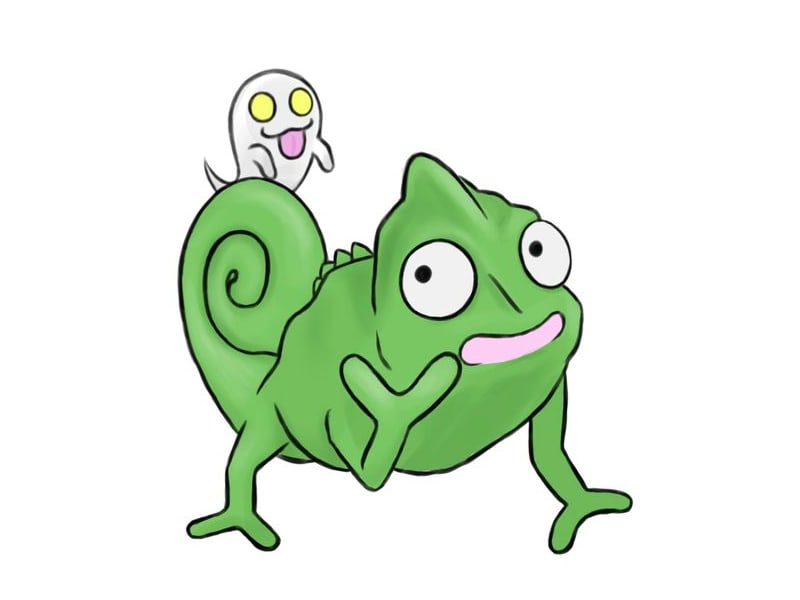
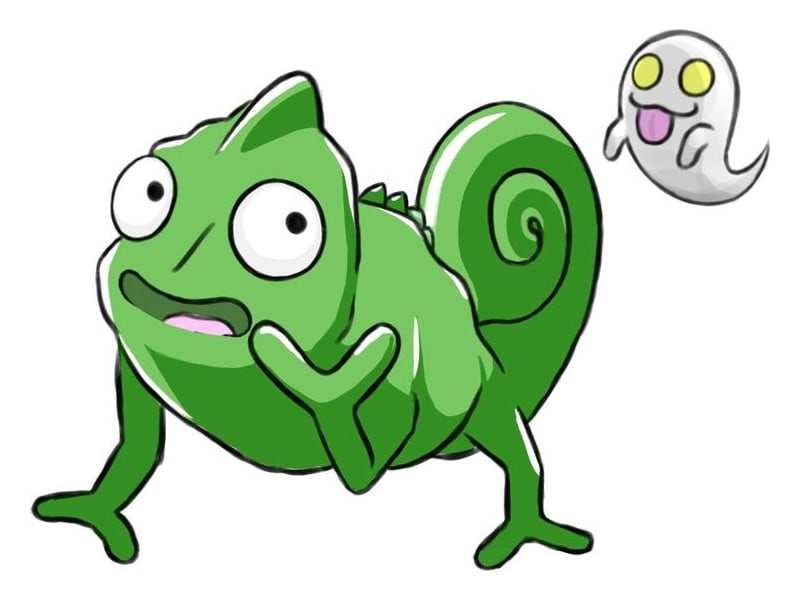
全チームのアイコンを新しい画像に更新、TEAM6をもりづくりに改名

diff --git a/data.js b/data.js
@@ -109,7 +109,7 @@ const SITE = {
     },
     {
       "team": "team6",
-      "label": "チームラボ",
+      "label": "もりづくり",
       "x": 7,
       "y": 6,
       "w": 3,
@@ -131,7 +131,7 @@ const TEAMS = [
     "color": "#3DBA4E",
     "nickname": "光学迷彩",
     "public": false,
-    "icon": "",
+    "icon": "images/team1-icon.jpg?v=2f3f4524",
     "name": "",
     "catch": "",
     "image": "",
@@ -150,7 +150,7 @@ const TEAMS = [
     "color": "#F5B700",
     "nickname": "サッカー",
     "public": false,
-    "icon": "",
+    "icon": "images/team2-icon.jpg?v=b6ddc9f9",
     "name": "",
     "catch": "",
     "image": "",
@@ -169,7 +169,7 @@ const TEAMS = [
     "color": "#FF7A2F",
     "nickname": "機銃",
     "public": false,
-    "icon": "",
+    "icon": "images/team3-icon.jpg?v=57d55043",
     "name": "",
     "catch": "",
     "image": "",
@@ -188,7 +188,7 @@ const TEAMS = [
     "color": "#FF5C93",
     "nickname": "脱出サバイバル",
     "public": false,
-    "icon": "images/team4-icon.jpg?v=a538c052",
+    "icon": "images/team4-icon.jpg?v=591e370b",
     "name": "",
     "catch": "",
     "image": "",
@@ -207,7 +207,7 @@ const TEAMS = [
     "color": "#3A9BFF",
     "nickname": "レース",
     "public": false,
-    "icon": "images/team5-icon.jpg?v=a12c76a0",
+    "icon": "images/team5-icon.jpg?v=a2768b1d",
     "name": "",
     "catch": "",
     "image": "",
@@ -224,9 +224,9 @@ const TEAMS = [
     "id": "team6",
     "no": 6,
     "color": "#A57BFF",
-    "nickname": "チームラボ",
+    "nickname": "もりづくり",
     "public": false,
-    "icon": "images/team6-icon.jpg?v=1b3c6686",
+    "icon": "images/team6-icon.jpg?v=c0e27a5a",
     "name": "",
     "catch": "",
     "image": "",

diff --git a/index.html b/index.html
@@ -19,7 +19,7 @@
 </head>
 <body>
 <div id="app"></div>
-<script src="data.js?v=5ca4cad9"></script>
+<script src="data.js?v=85adc682"></script>
 <script src="map.js?v=741b1af8"></script>
 <script src="app.js?v=f79cb9b0"></script>
 </body>
